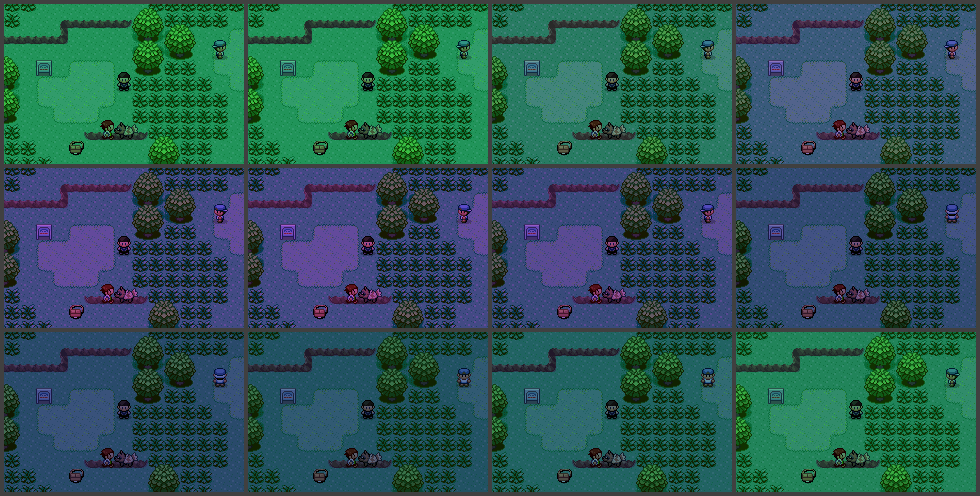
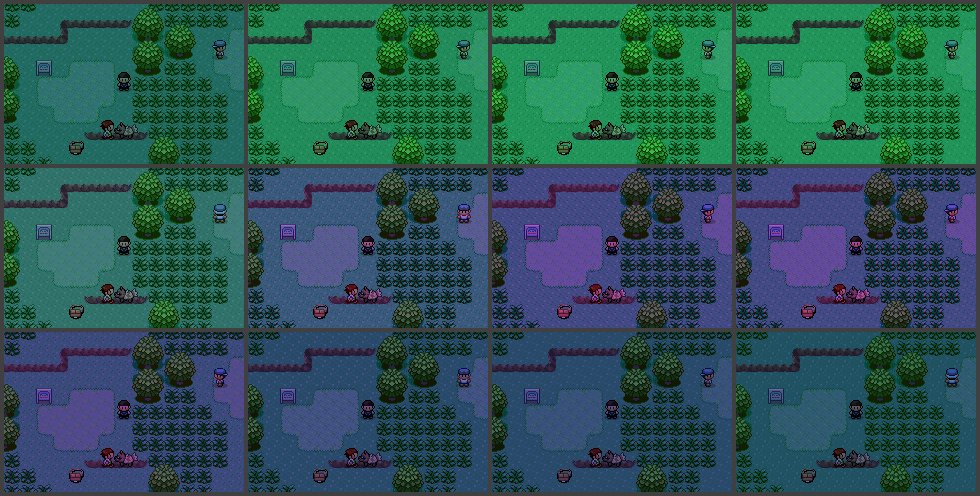
Slow the aurora loop down to about 25 seconds
Each leg (blue to green, green to violet, violet to blue) now takes about
8.5 seconds instead of 4. Shot of one full loop in
design/art/aurora_map_pulse.png (shots 128 frames apart).

Claude-Session: https://claude.ai/code/session_01KEfQ3687BBFMv8bczkVuAH

diff --git a/src/eien_aurora.c b/src/eien_aurora.c
@@ -31,8 +31,8 @@ static const struct BlendSettings sAuroraBlends[] =
 };
 
 #define FRAMES_PER_STEP  4 // Palettes are re-blended every this many frames
-#define STEPS_PER_LEG   64 // Each leg (one tint to the next) is 64 steps * 4 frames: about 4 seconds
-#define STEPS_PER_CYCLE (STEPS_PER_LEG * ARRAY_COUNT(sAuroraBlends)) // The whole loop: about 13 seconds
+#define STEPS_PER_LEG  128 // Each leg (one tint to the next) is 128 steps * 4 frames: about 8.5 seconds
+#define STEPS_PER_CYCLE (STEPS_PER_LEG * ARRAY_COUNT(sAuroraBlends)) // The whole loop: about 25 seconds
 
 static EWRAM_DATA u16 sPhase = 0; // Step within the cycle
 static EWRAM_DATA u8 sStepTimer = 0;

diff --git a/design/game-bible.md b/design/game-bible.md
@@ -132,7 +132,7 @@ on what other hacks and fan games do.
   - **Aurora on the map:** a cold night palette with a slow color pulse. Aurora nights are
     clear, so no snow then. The first is story-set (Kaede's step 2); after that they come back
     at random. Built as the weather `WEATHER_AURORA` (`src/eien_aurora.c`): it loops the
-    night tint from a cold blue to a green glow to a violet glow and back, about 13 seconds a
+    night tint from a cold blue to a green glow to a violet glow and back, about 25 seconds a
     cycle (placeholder colors; shots in `art/aurora_map_plain_night.png` and `art/aurora_map_pulse.png`). When a
     map loads at night, an outdoor map whose weather is clear or snow gets the aurora instead
     if tonight is an aurora night. Tonight is an aurora night if `FLAG_AURORA_TONIGHT` is set
